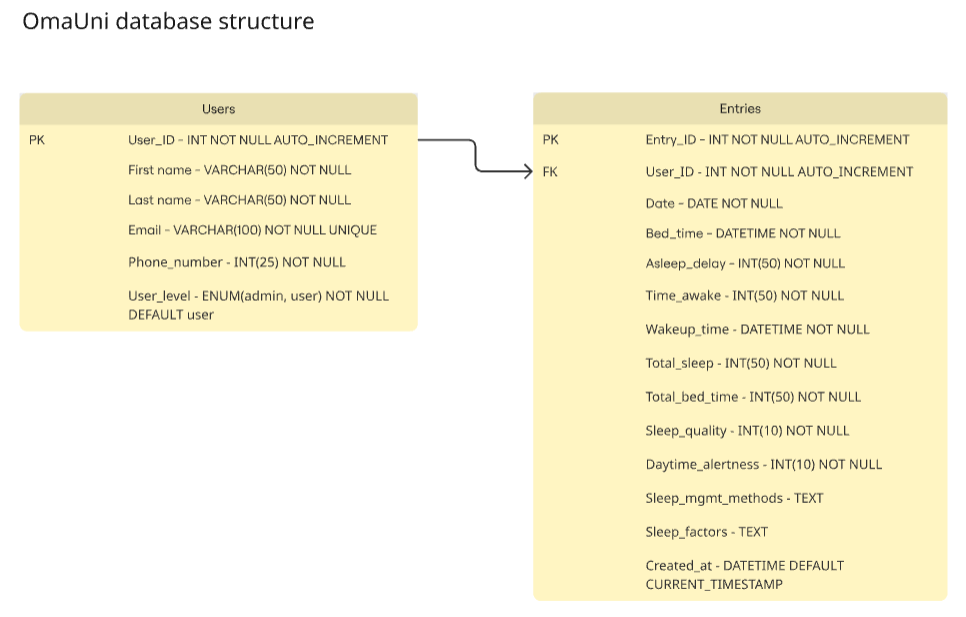
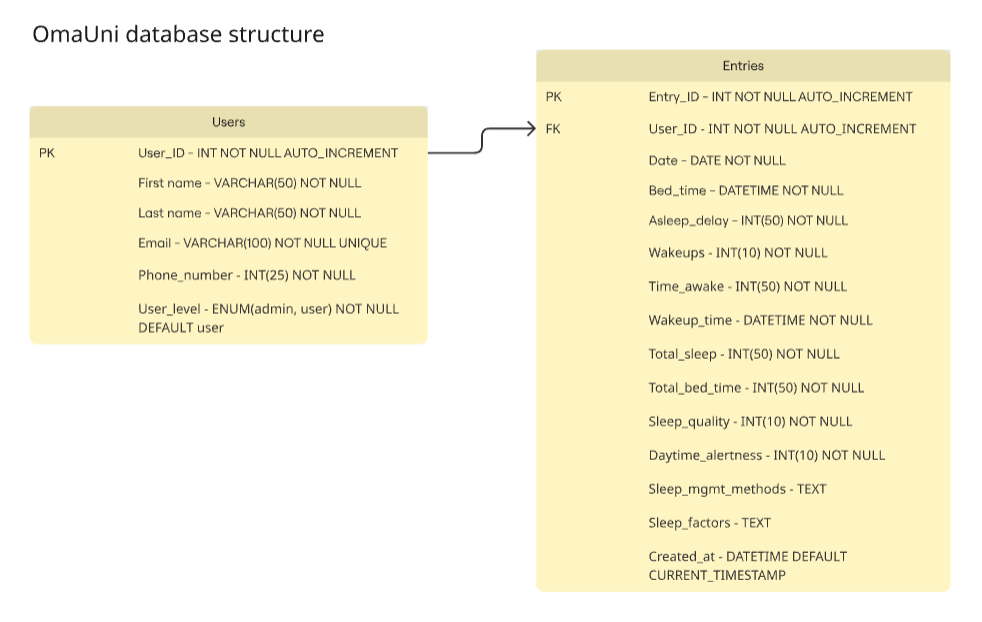
Updates to database

diff --git a/src/routes/entry-router.js b/src/routes/entry-router.js
@@ -14,14 +14,14 @@ entryRouter
   .route('/')
   // post to /api/entries
   .post(
-    authenticateToken,
+    //authenticateToken,
     body('date').notEmpty().isDate(),
-    body('bed_time').notEmpty().isISO8601(),
+    body('bed_time').notEmpty().isISO8601(), // datetime
     body('asleep_delay').notEmpty().isInt({min: 0, max: 1440}), // minutes (0-1440)
-    body('time_awake').notEmpty().isInt({min: 0, max: 1440}),
-    body('wakeup_time').notEmpty().isISO8601(),
-    body('total_sleep').notEmpty().isInt({min: 0, max: 24}), // hours (0-24)
-    body('total_bed_time').notEmpty().isInt({min: 0, max: 24}), // hours (0-24)
+    body('time_awake').notEmpty().isInt({min: 0, max: 1440}), // minutes (0-1440)
+    body('wakeup_time').notEmpty().isISO8601(), // datetime
+    body('total_sleep').notEmpty().isInt({min: 0, max: 1440}), // minutes (0-1440)
+    body('total_bed_time').notEmpty().isInt({min: 0, max: 1440}), // minutes (0-1440)
     body('sleep_quality').notEmpty().isInt({min: 1, max: 10}), // rating (1-10)
     body('daytime_alertness').notEmpty().isInt({min: 1, max: 10}), // rating (1-10)
     body('sleep_mgmt_methods').optional().isString().trim().escape(),
@@ -37,7 +37,7 @@ entryRouter
   .route('/:id')
 //  .get(authenticateToken, getEntryById)
   .put(
-    authenticateToken,
+    //authenticateToken,
     param('entry_id').isInt(), // entry_id parameter is part of the request URL, no request body
     body('entry_date').optional().isDate(),
     body('mood').trim().optional().isLength({min: 3, max: 25}).escape(),

diff --git a/src/models/entry-model.js b/src/models/entry-model.js
@@ -6,16 +6,20 @@ import promisePool from '../utils/database.js';
  * @returns
  */
 const insertEntry = async (entry) => {
+  console.log("entry-model.js insertEntry", entry);
+  entry.user_id = parseInt(entry.user_id);
+  console.log("entry", entry);
   try {
     const [result] = await promisePool.query(
       `INSERT INTO Entries
-      (user_id, date, bed_time, asleep_delay, time_awake, wakeup_time, total_sleep, total_bed_time, sleep_quality, daytime_alertness, sleep_mgmt_methods, sleep_factors)
-      VALUES (?, ?, ?, ?, ?, ?, ?, ?, ?, ?, ?, ?)`,
+      (user_id, date, bed_time, asleep_delay, wakeups, time_awake, wakeup_time, total_sleep, total_bed_time, sleep_quality, daytime_alertness, sleep_mgmt_methods, sleep_factors)
+      VALUES (?, ?, ?, ?, ?, ?, ?, ?, ?, ?, ?, ?, ?)`,
       [
-        entry.user_id,
+        1,
         entry.date,
         entry.bed_time,
         entry.asleep_delay,
+        entry.wakeups,
         entry.time_awake,
         entry.wakeup_time,
         entry.total_sleep,

diff --git a/src/controllers/entry-controller.js b/src/controllers/entry-controller.js
@@ -2,8 +2,9 @@ import {insertEntry, selectEntriesByUserId, updateEntry} from '../models/entry-m
 
 const postEntry = async (req, res, next) => {
   // user_id, date, bed_time, asleep_delay, time_awake, wakeup_time, total_sleep, total_bed_time, sleep_quality, daytime_alertness, sleep_mgmt_methods, sleep_factors
+  console.log("entry-controller.js postEntry", req.body);
   const newEntry = req.body;
-  newEntry.user_id = req.user.userId;
+  console.log("newEntry", newEntry, newEntry.user_id);
   try {
     await insertEntry(newEntry);
     res.status(201).json({message: "Entry added."});

diff --git a/src/middlewares/error-handler.js b/src/middlewares/error-handler.js
@@ -21,7 +21,7 @@ const notFoundHandler = (req, res, next) => {
 /**
  * Custom default middleware for handling errors
  */
-const errorHandler = (err, req, res, next) => {
+const errorHandler = (err, req, res) => {
   res.status(err.status || 500); // default is 500 if err.status is not defined
   res.json({
     message: err.message,

diff --git a/src/controllers/kubios-auth-controller.js b/src/controllers/kubios-auth-controller.js
@@ -120,6 +120,7 @@ const syncWithLocalUser = async (kubiosUser) => {
     const newUserResult = await insertUser(newUser);
     userId = newUserResult.user_id;
   } else {
+    console.log('User already exists', result);
     userId = result.user_id;
   }
   console.log('syncWithLocalUser userId', userId);
